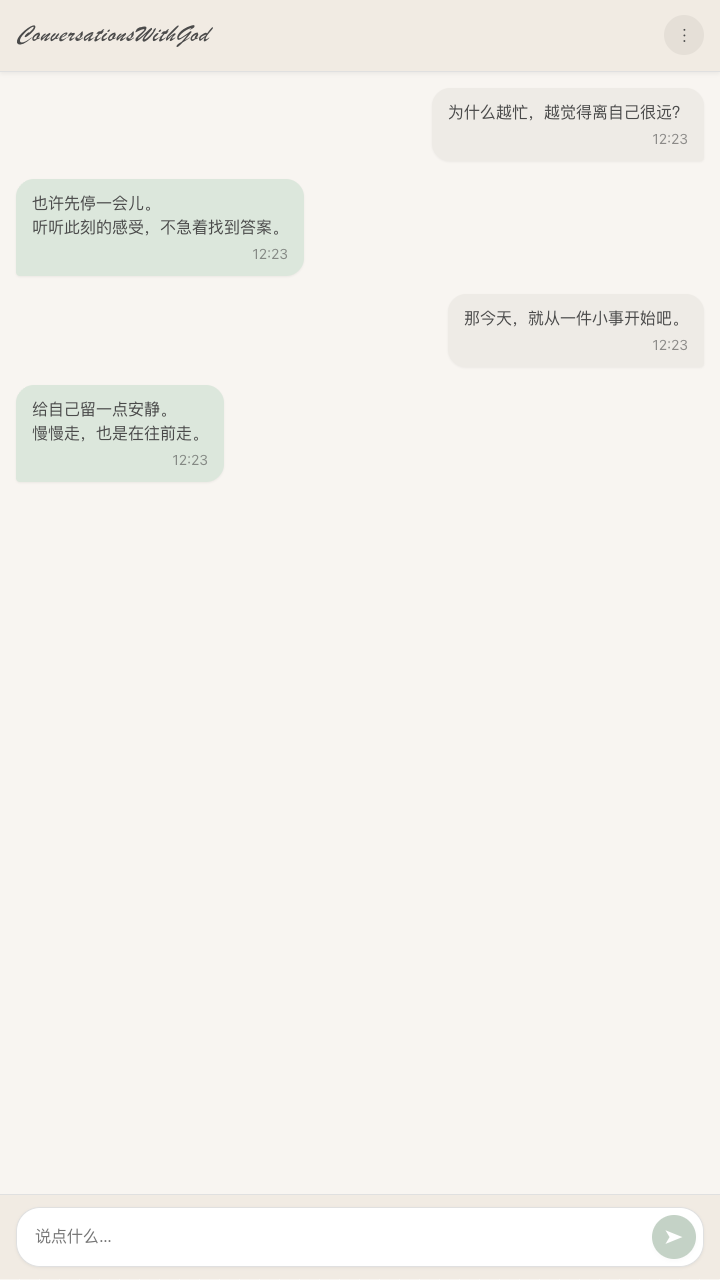
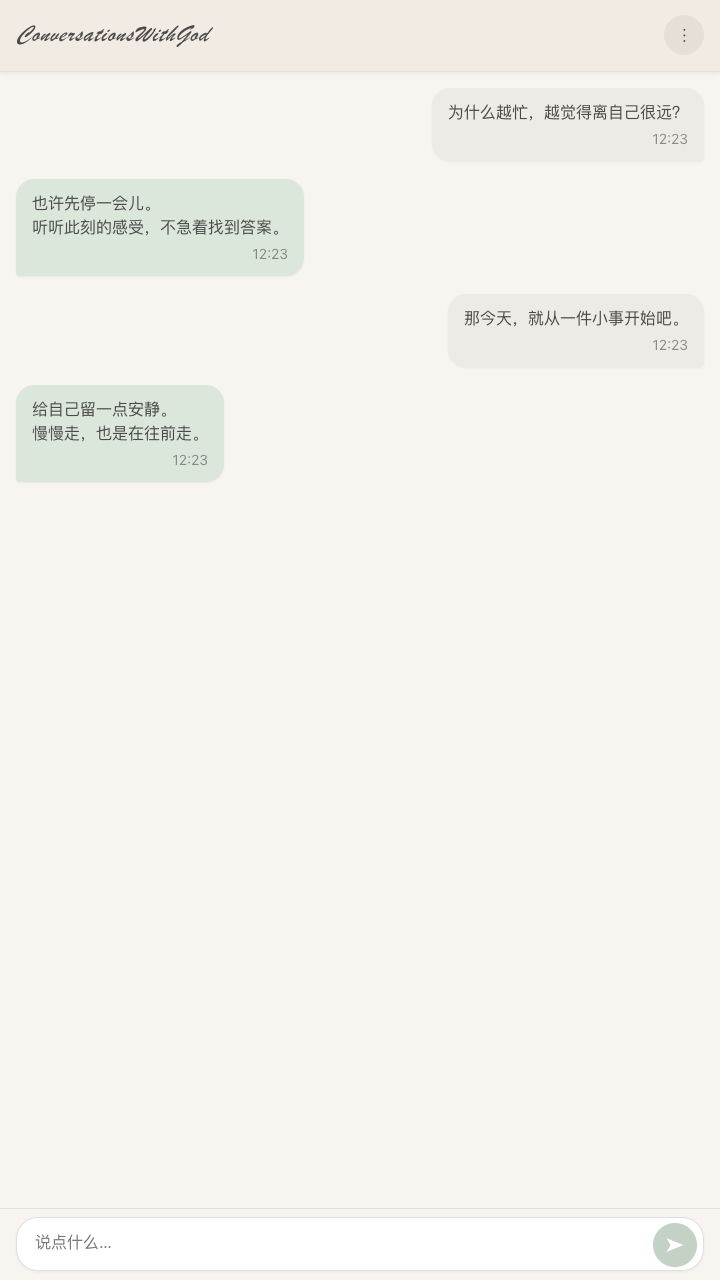
Refine composer spacing and refresh screenshots

Changed region(s): [[0.0306, 0.9375, 0.1833, 1.0], [0.8861, 0.9375, 0.9778, 1.0]]

diff --git a/index.html b/index.html
@@ -49,7 +49,7 @@
             /* Light mode (default) - paper-like style */
             --background-color: #f8f5f1;
             --header-background: #f1ebe3;
-            --input-area-background: #f1ebe3;
+            --input-area-background: #f8f5f1;
             --text-color: #4a4a4a;
             --own-message-background: #eeebe6;
             --other-message-background: #dce7dc;
@@ -79,7 +79,7 @@
         [data-theme="dark"] {
             --background-color: #2a2520;
             --header-background: #211e1a;
-            --input-area-background: #211e1a;
+            --input-area-background: #2a2520;
             --text-color: #e8d9c5;
             --own-message-background: #39342e;
             --other-message-background: #35463b;
@@ -413,7 +413,7 @@
         /* Input area styling */
         .chat-input-area {
             display: flex;
-            padding: 12px 16px;
+            padding: 8px 16px;
             background-color: var(--input-area-background);
             transition: background-color 0.5s;
             border-top: 1px solid var(--border-color);
@@ -427,7 +427,7 @@
             width: 100%;
             min-width: 0;
             border: 1px solid var(--border-color);
-            border-radius: 24px;
+            border-radius: 22px;
             background-color: var(--input-background);
             box-shadow: 0 1px 3px var(--shadow-color);
             transition: background-color .2s, border-color .2s;
@@ -435,14 +435,14 @@
 
         .composer:focus-within {
             border-color: var(--button-color);
-            box-shadow: 0 0 0 2px rgba(124, 156, 129, 0.2);
+            box-shadow: 0 0 0 1px rgba(124, 156, 129, 0.14);
         }
 
         #messageInput {
             display: block;
             width: 100%;
-            min-height: 58px;
-            padding: 16px 64px 16px 18px;
+            min-height: 52px;
+            padding: 12px 60px 12px 18px;
             border: 0;
             border-radius: inherit;
             font-size: var(--font-size-normal);
@@ -455,8 +455,8 @@
         /* Send button styling */
         #sendButton {
             position: absolute;
-            right: 7px;
-            bottom: 7px;
+            right: 6px;
+            bottom: 3px;
             background-color: var(--button-color);
             color: var(--button-text);
             border: none;
@@ -878,7 +878,7 @@
             }
 
             .chat-input-area {
-                padding: 10px;
+                padding: 8px 16px;
             }
 
             #messageInput {
@@ -1033,7 +1033,7 @@
         .notification .notice-dismiss { color: var(--text-color); font-size: 20px; }
         #messageInput { font-family: inherit; resize: none; max-height: min(160px, 32dvh); line-height: 1.5; overflow: hidden; scrollbar-width: none; }
         #sendButton:disabled { opacity: .45; cursor: default; transform: none; }
-        .chat-input-area { align-items: flex-end; padding-bottom: max(12px,env(safe-area-inset-bottom)); }
+        .chat-input-area { align-items: flex-end; padding-bottom: max(8px,env(safe-area-inset-bottom)); }
         .export-field { display: flex; flex-direction: column; gap: 6px; margin: 14px 0; font-size: 13px; }
         .export-field input,.export-field textarea,.export-field select { font: inherit; color: var(--text-color); background: var(--input-background); border: 1px solid var(--border-color); border-radius: 8px; padding: 10px; width: 100%; min-height: 44px; }
         .export-field { font-size: var(--font-size-normal); }

diff --git a/web/index.template.html b/web/index.template.html
@@ -49,7 +49,7 @@
             /* Light mode (default) - paper-like style */
             --background-color: #f8f5f1;
             --header-background: #f1ebe3;
-            --input-area-background: #f1ebe3;
+            --input-area-background: #f8f5f1;
             --text-color: #4a4a4a;
             --own-message-background: #eeebe6;
             --other-message-background: #dce7dc;
@@ -79,7 +79,7 @@
         [data-theme="dark"] {
             --background-color: #2a2520;
             --header-background: #211e1a;
-            --input-area-background: #211e1a;
+            --input-area-background: #2a2520;
             --text-color: #e8d9c5;
             --own-message-background: #39342e;
             --other-message-background: #35463b;
@@ -413,7 +413,7 @@
         /* Input area styling */
         .chat-input-area {
             display: flex;
-            padding: 12px 16px;
+            padding: 8px 16px;
             background-color: var(--input-area-background);
             transition: background-color 0.5s;
             border-top: 1px solid var(--border-color);
@@ -427,7 +427,7 @@
             width: 100%;
             min-width: 0;
             border: 1px solid var(--border-color);
-            border-radius: 24px;
+            border-radius: 22px;
             background-color: var(--input-background);
             box-shadow: 0 1px 3px var(--shadow-color);
             transition: background-color .2s, border-color .2s;
@@ -435,14 +435,14 @@
 
         .composer:focus-within {
             border-color: var(--button-color);
-            box-shadow: 0 0 0 2px rgba(124, 156, 129, 0.2);
+            box-shadow: 0 0 0 1px rgba(124, 156, 129, 0.14);
         }
 
         #messageInput {
             display: block;
             width: 100%;
-            min-height: 58px;
-            padding: 16px 64px 16px 18px;
+            min-height: 52px;
+            padding: 12px 60px 12px 18px;
             border: 0;
             border-radius: inherit;
             font-size: var(--font-size-normal);
@@ -455,8 +455,8 @@
         /* Send button styling */
         #sendButton {
             position: absolute;
-            right: 7px;
-            bottom: 7px;
+            right: 6px;
+            bottom: 3px;
             background-color: var(--button-color);
             color: var(--button-text);
             border: none;
@@ -878,7 +878,7 @@
             }
 
             .chat-input-area {
-                padding: 10px;
+                padding: 8px 16px;
             }
 
             #messageInput {
@@ -1033,7 +1033,7 @@
         .notification .notice-dismiss { color: var(--text-color); font-size: 20px; }
         #messageInput { font-family: inherit; resize: none; max-height: min(160px, 32dvh); line-height: 1.5; overflow: hidden; scrollbar-width: none; }
         #sendButton:disabled { opacity: .45; cursor: default; transform: none; }
-        .chat-input-area { align-items: flex-end; padding-bottom: max(12px,env(safe-area-inset-bottom)); }
+        .chat-input-area { align-items: flex-end; padding-bottom: max(8px,env(safe-area-inset-bottom)); }
         .export-field { display: flex; flex-direction: column; gap: 6px; margin: 14px 0; font-size: 13px; }
         .export-field input,.export-field textarea,.export-field select { font: inherit; color: var(--text-color); background: var(--input-background); border: 1px solid var(--border-color); border-radius: 8px; padding: 10px; width: 100%; min-height: 44px; }
         .export-field { font-size: var(--font-size-normal); }
